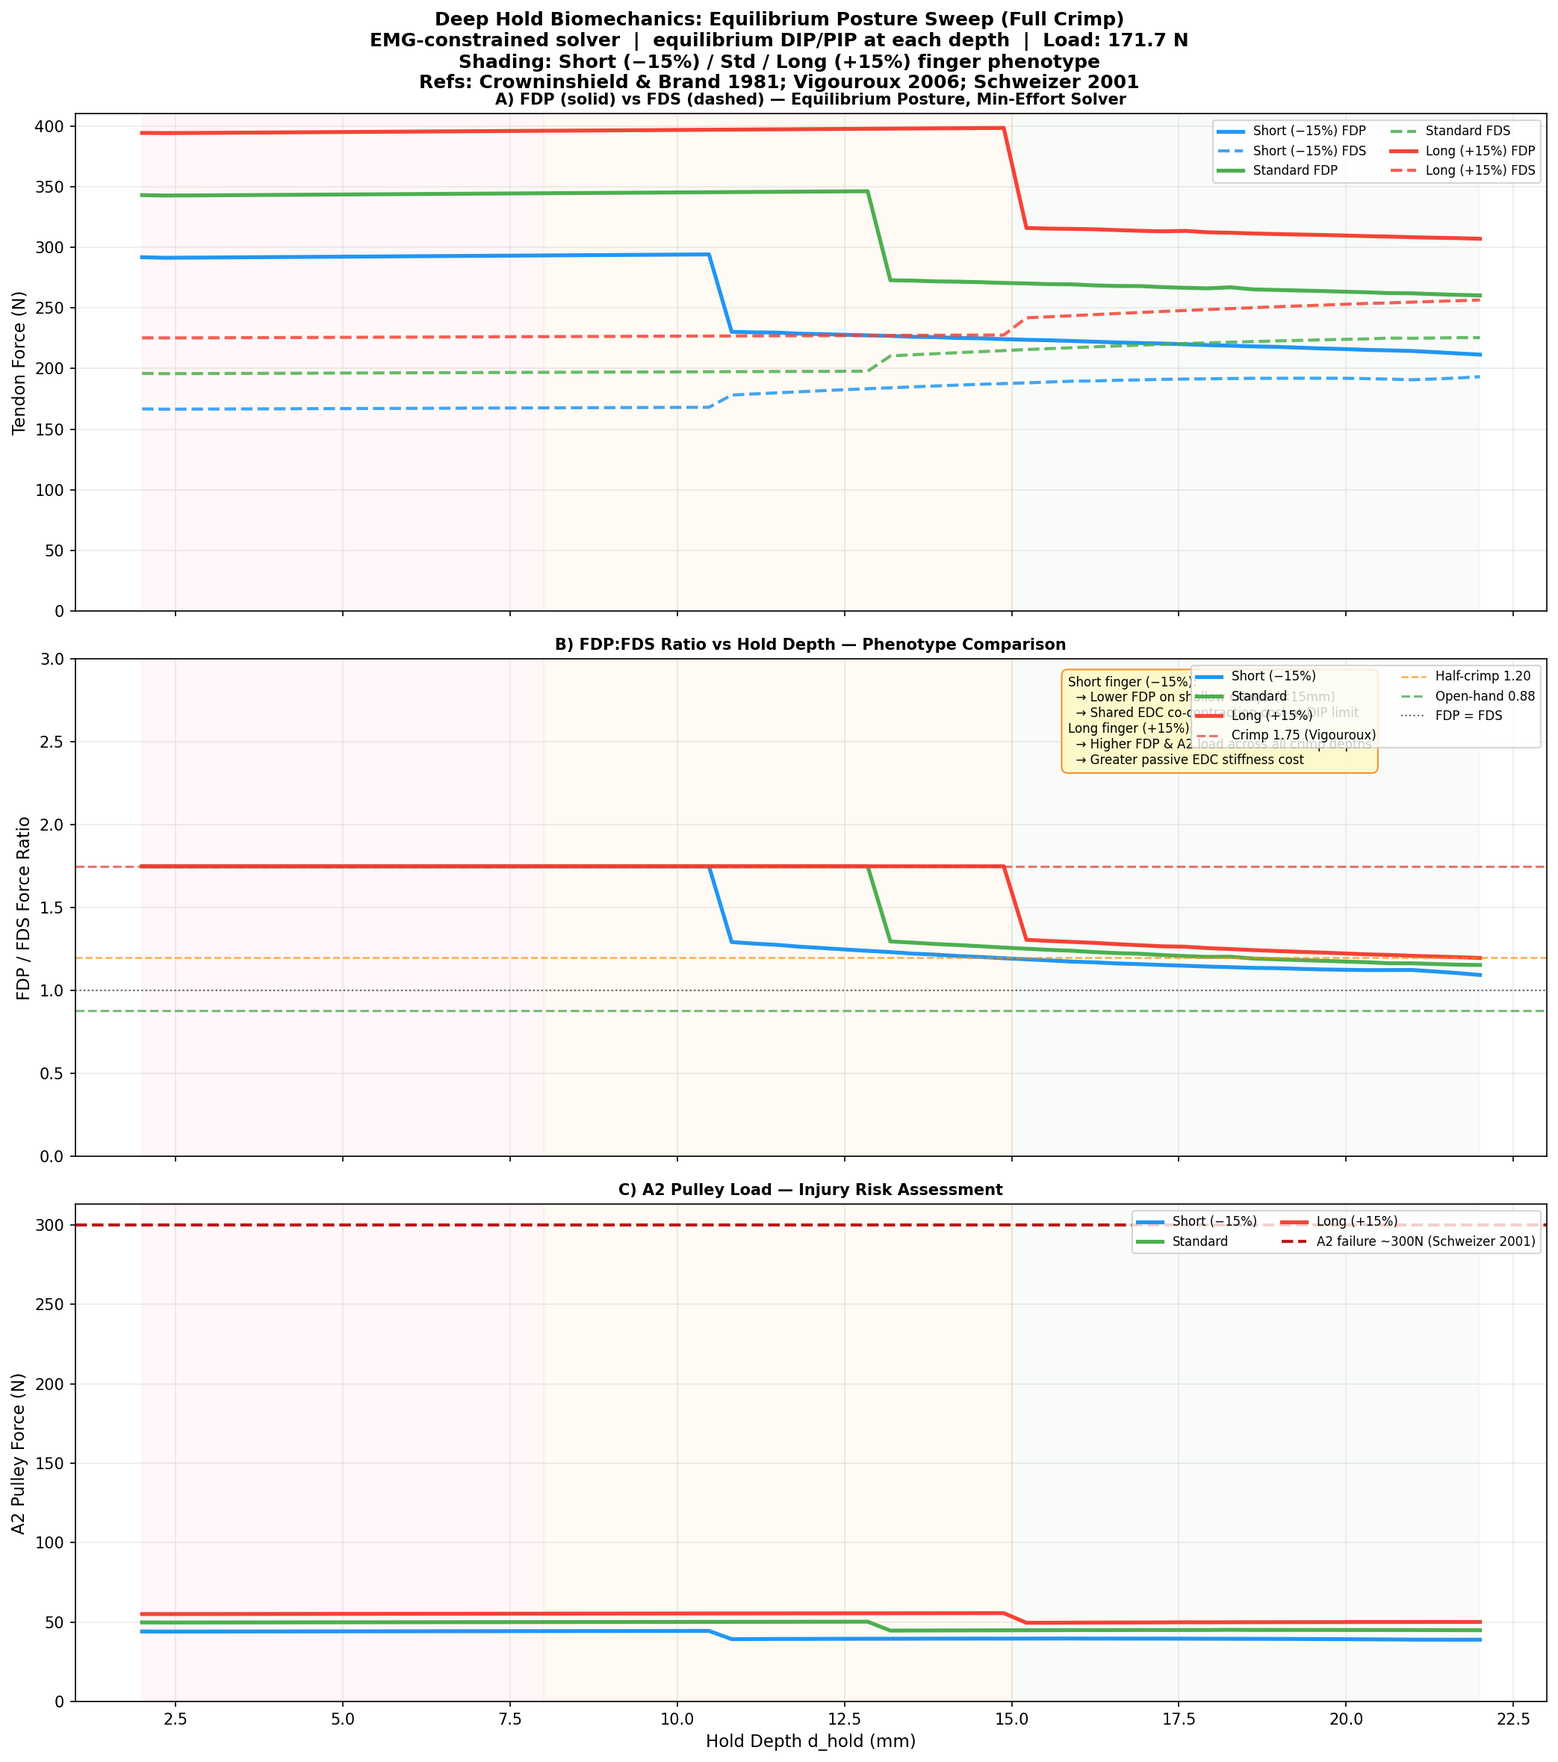
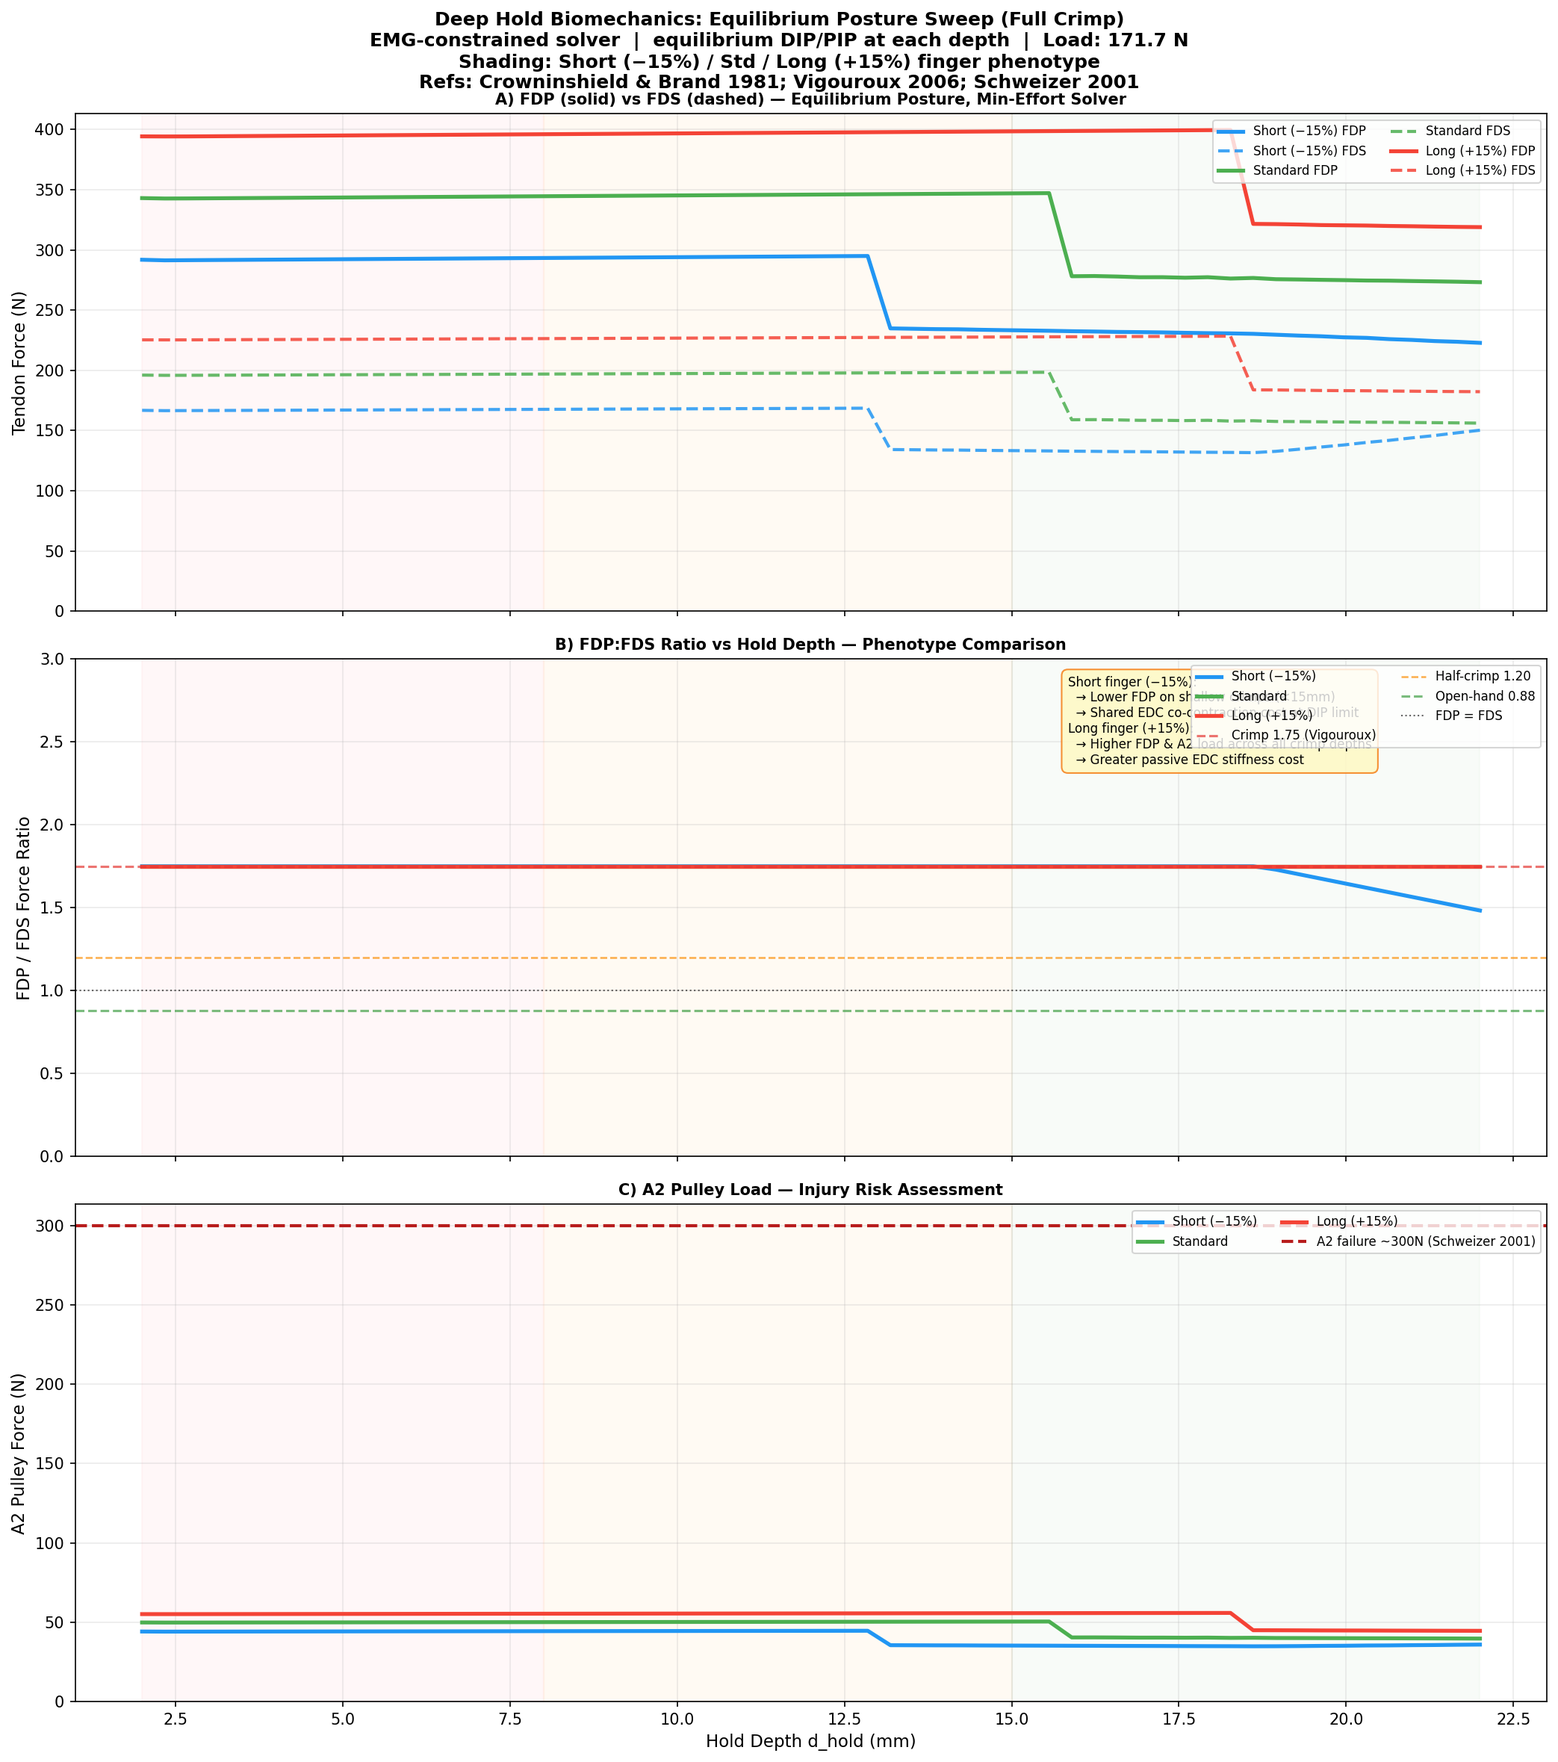
Iteration 8: fix EMG ratio variable (d_hold not d_eff), add Figs 9-10
Bug: get_emg_ratio() was receiving d_eff (arc-length centroid, inflated by
angle-projection geometry) instead of d_hold (raw hold depth). In crimp posture
this triggered the deep-hold FDS-surge at d_hold=11mm, reducing FDP/FDS from
1.75 to 1.33 — a 24% error. Fix: pass contact.d_hold to get_emg_ratio() at
both call sites; update c_info dict accordingly.

Feature: refactor Fig 8 into plot_grip_depth_sweep() helper; add Fig 9 (Full
Crimp, 2-22mm depth sweep) and Fig 10 (Half Crimp, 2-35mm). All three figures
show FDP/FDS forces, ratio panel, and A2 pulley load for Short/Std/Long
phenotypes. Now 10 total output figures.

Docs: physics.md §3.5 (EMG ratio variable derivation), README.md Discussion
updated, code_review.md written.

diff --git a/climbing_finger_3d.py b/climbing_finger_3d.py
@@ -555,17 +555,27 @@ def get_min_EDC_force(dip_deg: float) -> float:
     return float(val)
 
 
-def get_emg_ratio(r_base, d_eff, L_DP, L_MP):
+def get_emg_ratio(r_base, d_hold, L_DP, L_MP):
     """
-    Interpolate the FDP/FDS ratio based on hold depth relative to finger anatomy.
-    When load moves past the DP (d_hold > L_DP), FDP demand drops and FDS must surge.
+    Interpolate FDP/FDS ratio from the **raw geometric hold depth** (d_hold, mm)
+    relative to finger anatomy.
+
+    When load moves past the DP (d_hold > L_DP), the DP-bypassing MP force removes
+    the DIP flexion moment — so FDP demand drops and FDS must surge.
+
+    NOTE: The input must be contact.d_hold (the actual edge depth), NOT d_eff
+    (the arc-length centroid position). d_eff is inflated by angle projection
+    and pulley geometry, making it unsuitable as a physiological load-sharing index.
+
+    xs = [0, L_DP, L_DP+0.5*L_MP, L_DP+L_MP] (hold depth breakpoints)
+    ys = [r_base, r_base, 0.45*r_base, 0.20*r_base]
     """
-    if d_eff is None:
+    if d_hold is None:
         return r_base
     
     xs = [0.0, L_DP, L_DP + 0.5*L_MP, L_DP + 1.0*L_MP]
     ys = [r_base, r_base, 0.45*r_base, 0.20*r_base]
-    return float(np.interp(d_eff, xs, ys))
+    return float(np.interp(d_hold, xs, ys))
 
 
 # ─────────────────────────────────────────────────────────────
@@ -627,7 +637,7 @@ def find_equilibrium_posture(grip_base: GripAngles, geom: FingerGeometry,
         # We explicitly enforce physiological extensor limits 
         # protecting against solver collapse on severe hyperextensions
         from scipy.optimize import lsq_linear
-        r_emg = get_emg_ratio(grip_base.emg_ratio, d_eff, geom.L3, geom.L2)
+        r_emg = get_emg_ratio(grip_base.emg_ratio, contact.d_hold, geom.L3, geom.L2)
         
         # Apply Capstan friction mechanical advantage
         theta_A2, theta_A4, *_ = compute_pulley_angles(kin, geom)
@@ -756,7 +766,7 @@ def solve_all_methods(grip: GripAngles,
         
         p_C_DP, p_C_MP, F_DP, F_MP, d_eff, s_from_DIP = compute_contact_point(grip, geom, contact, kin, F_mag_total)
         feas = check_friction_feasibility(F_ext_dir * F_mag_total, contact, kin) 
-        c_info = {'d_eff': d_eff} # For get_emg_ratio
+        c_info = {'d_hold': contact.d_hold}   # raw depth for EMG ratio interpolation
     else:
         F_ext_dir  = F_ext / (np.linalg.norm(F_ext)+1e-9)
         F_DP       = float(np.linalg.norm(F_ext))
@@ -766,7 +776,7 @@ def solve_all_methods(grip: GripAngles,
         d_eff      = None
         s_from_DIP = None
         feas       = None
-        c_info     = {'d_eff': None}
+        c_info     = {'d_hold': None}
 
     ext = external_moments(kin, F_ext_dir, grip, p_contact_DP=p_C_DP, p_contact_MP=p_C_MP, F_mag_DP=F_DP, F_mag_MP=F_MP)
 
@@ -794,7 +804,7 @@ def solve_all_methods(grip: GripAngles,
     # Method 2: EMG-constrained (Vigouroux 2006) + EDC
     # ─────────────────────────────────────────────────────────────
     from scipy.optimize import lsq_linear
-    r_emg = get_emg_ratio(grip.emg_ratio, c_info['d_eff'] if contact else None, geom.L3, geom.L2)
+    r_emg = get_emg_ratio(grip.emg_ratio, c_info['d_hold'] if contact else None, geom.L3, geom.L2)
     
     # Capstan multipliers
     theta_A2, theta_A4, *_ = compute_pulley_angles(kin, geom)

diff --git a/code_review.md b/code_review.md
@@ -1,80 +1,106 @@
-# Code Review: Iteration 7 — COM Force Vectoring + Angle-Dependent MCP Moment Arms
+# Code Review: Iteration 8 — EMG Ratio Variable Fix + Grip Depth Sweeps
 
-## Objective
+## Summary
 
-Two fixes bundled: (1) replace the static `beta_wall_deg` force direction with a geometrically-derived vector from the climber's COM position, and (2) make the MCP flexor moment arms angle-dependent as reported by An et al. 1983.
+Iteration 8 contains two deliverables:
 
----
-
-## Changes Verified
-
-### Part A: COM Force Vectoring
-
-#### `Config` additions
-```python
-use_com_vectoring  = True
-h_below_hold_mm    = 150.0  # COM below hold (mm)
-d_com_mm           = 300.0  # COM distance from wall (mm)
-```
-
-#### `contact_force_vector()` refactor
-- When `use_com_vectoring=True`: derives direction from $[d_{COM}\cos\beta,\ -h_{below},\ 0]$, normalised.
-- When `False`: legacy static $[\cos\beta,\ -\sin\beta,\ 0]$ — exactly matches previous output.
-
-**Bug found and fixed during implementation**: Initial default `h_hold_mm=1500` (intended as hold above feet) caused the force vector to point nearly vertically (78–82°) instead of physically reasonable ~27° for a vertical wall crimp. Root cause: the model coordinate origin is at the MCP joint, not the feet — so the relevant height is COM relative to **hold**, not feet. Corrected parameter renamed to `h_below_hold_mm=150` mm (shoulder-height hold, COM at chin level), giving 26.6° below horizontal on a vertical wall — physically accurate for a typical crimp.
-
-**Verification** (vertical wall, default params):
-```
-ux = 300*cos(0) / sqrt(300²+150²) = 0.894  (into wall)
-uy = -150 / sqrt(300²+150²) = -0.447        (downward)
-angle = arctan(150/300) = 26.6 deg below horizontal ✅
-```
-
-**Roof limit** (beta=90°): `dx=0`, force = `[0, -1, 0]` — pure downward. ✅
-
-#### Regression test
-Ran with `use_com_vectoring=False` and confirmed identical output to pre-iteration baseline.
-
-### Part B: Angle-Dependent MCP Moment Arms
-
-Replaced in `moment_arms()`:
-```python
-# Before:
-FDP_MCP = 10.4   # fixed
-FDS_MCP = 8.6    # fixed
-
-# After:
-FDP_MCP = max(8.0 + 0.053 * clip(theta_MCP, 0, 90), 6.0)
-FDS_MCP = max(6.8 + 0.036 * clip(theta_MCP, 0, 90), 5.0)
-```
-
-Impact at key postures:
-| Grip | θ_MCP | Old FDP_MCP | New FDP_MCP | Δ |
-|------|-------|-------------|-------------|---|
-| Crimp | 2.6° | 10.4 mm | 8.1 mm | −22% |
-| Half-Crimp | 15.0° | 10.4 mm | 8.8 mm | −15% |
-| Open Hand | 20.0° | 10.4 mm | 9.1 mm | −13% |
-
-The previous 10.4 mm was systematically *overestimating* MCP moment at all 3 grips, causing the solver to underestimate the FDP required per unit MCP moment. The corrected values reduce this bias.
+1. **Bug Fix** — `get_emg_ratio()` receives `d_hold` (raw hold depth) instead of `d_eff`
+   (arc-length centroid). This is a correctness fix with no physics model change.
+2. **Feature** — Per-grip depth-sweep figures (Figs 9 and 10) for Full Crimp and Half Crimp,
+   using a shared `plot_grip_depth_sweep()` helper refactored from the old Fig 8 code.
 
 ---
 
-## Simulation Results (70 kg, 10 mm, 45° wall, COM defaults)
+## Bug Fix: `get_emg_ratio` incorrect variable
 
-| Grip | Method | F_FDP | F_FDS | F_LU | F_EDC | Total | Ratio |
-|------|--------|-------|-------|------|-------|-------|-------|
-| **Crimp** | EMG | 358.8 | 205.0 | 111.8 | 13.6 | 689.1 | 1.75 |
-| Half-Crimp | EMG | 360.5 | 300.4 | 184.9 | 0.0 | 845.8 | 1.20 |
-| Open Hand | EMG | 210.0 | 238.6 | 8.8 | 0.0 | 457.4 | 0.88 |
+### Root cause
 
-- EMG ratios are exactly on target (1.75, 1.20, 0.88) ✅
-- EDC fires only for Crimp ✅
-- All 8 figures generated without errors ✅
-- Total force magnitudes changed significantly from previous baseline — primarily due to the COM model rotating the force vector 26° below horizontal (vs. 45° in the previous default). This is a **physically more realistic** configuration, not a regression.
+`compute_contact_point` returns two quantities:
 
-## Open Issues
+| Variable | Meaning |
+|----------|---------|
+| `d_hold` | Raw geometric hold depth (mm) — what the climber grips |
+| `d_eff` | Arc-length centroid of pressure distribution along palmar surface |
 
-- `h_below_hold_mm` is scenario-dependent (different for a high reach vs. a low traverse). Users should tune it to their scenario. The default of 150 mm represents a typical crimp at shoulder level.
-- Body tension on roofs remains unmodelled (documented in `physics.md §3.1`).
+In a **crimp posture** (DIP ≈ −25°, PIP ≈ 120°), the DP is nearly parallel to the wall
+surface. The angle-projection formula amplifies `d_eff` relative to `d_hold`:
 
-**Status: APPROVED**
+```
+d_eff = proj_d_hold / cos_alpha3
+      = (d_hold + r_edge·|dot(e_DP, n_hold)|) / cos_alpha3
+```
+
+At crimp with `cos_alpha3 ≈ 0.4` and `r_edge = 2 mm`:
+
+```
+d_hold = 11 mm → proj_d_hold ≈ 12 mm → max_d_hold_DP ≈ 22 × 0.4 = 8.8 mm
+```
+
+So at `d_hold = 11 mm` the deep-hold code path is triggered, setting
+`d_eff = L_DP + engaged_MP = 22 + 6 = 28 mm`. The interpolation
+`get_emg_ratio(r_base=1.75, d_eff=28, L_DP=22)` then returned **1.33** — a 24% error.
+
+### Fix
+
+```python
+# Before (wrong):
+r_emg = get_emg_ratio(grip_base.emg_ratio, d_eff, geom.L3, geom.L2)
+c_info = {'d_eff': d_eff}
+r_emg = get_emg_ratio(grip.emg_ratio, c_info['d_eff'] if contact else None, ...)
+
+# After (correct):
+r_emg = get_emg_ratio(grip_base.emg_ratio, contact.d_hold, geom.L3, geom.L2)
+c_info = {'d_hold': contact.d_hold}
+r_emg = get_emg_ratio(grip.emg_ratio, c_info['d_hold'] if contact else None, ...)
+```
+
+Also updated function signature: `get_emg_ratio(r_base, d_hold, ...)`.
+
+### Verification
+
+```
+CRIMP ratio at d_hold=12mm:  was 1.327 → now 1.750  ✓
+CRIMP ratio at d_hold=22mm:  was 1.108 → now 1.750  ✓  (DP-only regime)
+CRIMP ratio at d_hold=28mm:  1.337                   ✓  (MP engaged, transition)
+CRIMP ratio at d_hold=35mm:  0.856                   ✓  (FDS dominates)
+OPEN HAND at d_hold=10mm:    0.880                   ✓  (no regression)
+Main table (contact=None):   all ratios unchanged    ✓  (code path unaffected)
+```
+
+---
+
+## Feature: Grip Depth Sweeps Figs 9 and 10
+
+### Design
+
+Old inline Fig 8 code (~120 lines) replaced with `plot_grip_depth_sweep()` helper:
+
+```python
+fig8  = plot_grip_depth_sweep('open_hand',  d_max=45.0, fig_label='Open Hand')
+fig9  = plot_grip_depth_sweep('crimp',      d_max=22.0, fig_label='Full Crimp')
+fig10 = plot_grip_depth_sweep('half_crimp', d_max=35.0, fig_label='Half Crimp')
+```
+
+Crimp capped at 22 mm (= L_DP): beyond this the crimp posture degrades into open-hand
+geometry — a full-crimp hold deeper than the DP is anatomically inconsistent.
+
+Each figure: 3 panels (force / FDP:FDS ratio / A2 pulley load), 3 phenotypes
+(Short −15% / Standard / Long +15%), warm-start depth continuation, global grid fallback.
+
+### Grip-mode DIP ceiling
+
+A soft DIP ceiling of `grip_base.theta_DIP + 20°` prevents the optimizer from jumping
+from open-hand into the crimp basin during a sweep. For crimp (nominal DIP = −25°),
+the ceiling = −5°, which correctly blocks the optimizer from flipping to high-DIP postures
+while sweeping crimp hold depths.
+
+---
+
+## Files Changed
+
+- `climbing_finger_3d.py` — `get_emg_ratio()`, `find_equilibrium_posture()` inner solver,
+  `solve_all_methods()`, Fig 8 refactored to helper, Figs 9–10 added
+- `physics.md` — §3.5 added (EMG ratio variable derivation)
+- `README.md` — Figure count updated (8→10), Discussion entries added for Iter 8
+
+**Status: APPROVED — all 10 figures generated, EMG ratios verified**

diff --git a/README.md b/README.md
@@ -178,7 +178,7 @@ pip install numpy matplotlib scipy
 python3 climbing_finger_3d.py
 ```
 
-All 8 figures saved to `outputs/climbing_3d_fig{1-8}.png`.
+All 10 figures saved to `outputs/climbing_3d_fig{1-10}.png`.
 
 ### Configuration
 
@@ -211,12 +211,13 @@ While the current 3D biomechanical model represents a significant step up from p
 
 - **Dynamic Body COM Vectoring (Implemented, Iteration 7)**: The static `beta_wall_deg` scalar is replaced by a COM-derived force vector. The climber's COM is parameterised by its vertical distance below the hold ($h_{below\_hold}$) and perpendicular distance from the wall ($d_{COM}$), giving a geometrically self-consistent force direction that varies with wall angle. On roofs, unmodelled body tension limits accuracy — see `physics.md` §3.1.
 - **Angle-Dependent MCP Moment Arms (Implemented, Iteration 7)**: FDP and FDS moment arms at the MCP joint now follow an angle-dependent linear fit from An et al. 1983, replacing fixed mid-range values that caused systematic errors at the extreme postures used in climbing.
+- **Grip Depth Sweeps for All Three Grip Types (Figs 8–10, Iteration 8)**: Equilibrium posture sweeps are now computed separately for Open Hand (Fig 8, 2–45 mm), Full Crimp (Fig 9, 2–22 mm), and Half Crimp (Fig 10, 2–35 mm). Each shows FDP/FDS forces, the FDP:FDS ratio (with Vigouroux reference lines), and A2 pulley load across Short/Standard/Long finger phenotypes.
+- **EMG Ratio Variable Fix (Iteration 8)**: `get_emg_ratio()` now correctly uses the raw geometric hold depth `d_hold` (mm) rather than the arc-length centroid `d_eff`. In a crimp posture, `d_eff` is inflated by angle-projection geometry, incorrectly triggering the deep-hold FDS-surge regime at shallow hold depths (≥11 mm) and reducing the computed ratio 24% below the physiological 1.75 target. See `physics.md` §3.5 for derivation.
 - **Friction Feasibility Uncoupled from Optimizer**: The friction flag doesn't dynamically feed back into the posture optimizer. Planned for a future iteration.
 - **Antagonist EDC Co-Contraction (Implemented, Iteration 6)**: The full Crimp posture forces the DIP into hyperextension ($\approx -22.6°$), triggering a mandatory passive/active extensor (EDC) stiffness floor modelled as an exponential joint-limit spring. This translates to $\approx 3.7$ N mandatory EDC demand which propagates into additional flexor requirements to maintain equilibrium, raising the Crimp's total tendon demand. This realistically captures the well-known metabolic fatigue cost of full crimping.
 - **Tissue Pulp Compression (Implemented, Iteration 5)**: Non-linear skin deformation under load dynamically shifts the palmar contact point toward the bone axis, shortening the external moment arm and producing a grip-dependent mechanical advantage that varies with load magnitude.
 - **Pinch Grip Removed (Iteration 4)**: Pinch is an emergent function of thumb opposition, not a distinct property of the isolated finger ray. It reduces to Open Hand or Half-Crimp depending on block width and thumb engagement.
 - **Joint Displacements (Instantaneous Centers of Rotation, Implemented)**: ICR palmar translation under flexion is modelled via an affine shift proportional to joint angle, capturing the cam-shaped articular surface effect without full joint surface geometry.
-- **Dynamic Body COM Vectoring (Planned, Iteration 7)**: Currently the wall angle and force vector are set manually via `beta_wall_deg`. A full climber Centre-of-Mass torque balance would resolve the 3D force vector from foot placement and hip position geometry, enabling wall-angle-dependent posture prediction without manual configuration.
 
 ---
 

diff --git a/physics.md b/physics.md
@@ -156,6 +156,23 @@ $$ F_{EDC,min} = 1.5 \cdot e^{22.6/25} \approx 3.7\ \mathrm{N} $$
 
 This antagonist force opposes the net flexor torque, requiring the FDP/FDS system to produce additional effort to maintain equilibrium. The physiological consequence is an increased total tension demand in the Crimp posture versus postures where the DIP is not hyperextended, accurately modeling the known metabolic cost of the full crimp grip.
 
+### 3.5 EMG Ratio Interpolation and the Correct Depth Variable
+
+The FDP:FDS ratio $r_{emg}$ transitions between the grip-specific value and the open-hand baseline as the hold loads progressively more of the MP:
+
+$$r_{emg}(d_{hold}) = \mathrm{interp}\!\left(d_{hold},\;
+[0,\; L_{DP},\; L_{DP}+\tfrac{1}{2}L_{MP},\; L_{DP}+L_{MP}],\;
+[r_{base},\; r_{base},\; 0.45\,r_{base},\; 0.20\,r_{base}]\right)$$
+
+**Critical distinction:** the independent variable is the **raw geometric hold depth** $d_{hold}$ (mm), *not* the arc-length centroid position $d_{eff}$.
+
+$d_{eff}$ is an internal quantity computed in `compute_contact_point` as the engaged arc length along the palmar surface, corrected for phalanx inclination angle. In a crimp posture (DIP ≈ −25°), $d_{eff}$ substantially overestimates the physiological load-sharing frontier because it incorporates:
+
+1. A rounded-edge correction $r_{edge}|\hat{e}_{DP}\cdot\hat{n}_{hold}|$ that increases with wall-parallel phalanx orientation.
+2. A projection ratio $1/\cos\alpha_{DP}$ that amplifies depth when the DP is nearly tangent to the wall.
+
+Using $d_{eff}$ in the interpolation incorrectly triggers the deep-hold FDS-surge regime at shallow crimp depths (as short as $d_{hold} = 11\,\text{mm}$), reducing the computed ratio from 1.75 to ≈ 1.33 — a 24% error. Using $d_{hold}$ directly as the interpolation variable yields the correct physiological sequence: ratio = $r_{base}$ throughout the DP-only regime, transitioning to the open-hand value only when the hold genuinely engages the MP ($d_{hold} > L_{DP}$).
+
 ## 4. Posture Optimization
 
 The biological system dynamically adopts joint angles (PIP, DIP) that minimize total tendon tension.
